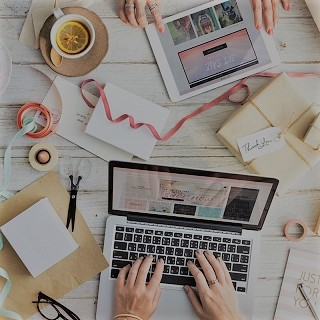
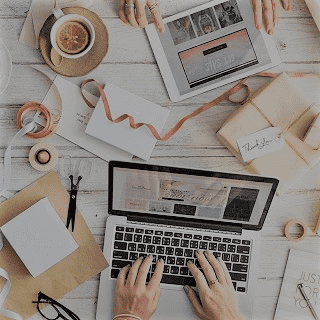
format jpg to png

diff --git a/version optimisée/index.html b/version optimisée/index.html
@@ -172,7 +172,7 @@
 		</div>
 		<div class="row tight-width-whitespace portfolio-row">
 			<div class="col-sm-6">
-				<a href="#" data-lightbox="img/1.jpg" data-gallery-id="gallery-1" data-caption="Refonte d'un site web pour un journal local" data-frame="snapshot-lb"><img src="img/1.jpg" alt="refonte site web journal" class="img-responsive portfolio-thumb" /></a>
+				<a href="#" data-lightbox="img/1.png" data-gallery-id="gallery-1" data-caption="Refonte d'un site web pour un journal local" data-frame="snapshot-lb"><img src="img/1.png" alt="refonte site web journal" class="img-responsive portfolio-thumb" /></a>
 				<h3 class="mg-md text-center">
 					Refonte d'un site web pour un journal local
 				</h3>
@@ -181,7 +181,7 @@
 				</p>
 			</div>
 			<div class="col-sm-6">
-				<a href="#" data-lightbox="img/2.jpg" data-gallery-id="gallery-1" data-caption="Création d'un site web pour photographes" data-frame="snapshot-lb"><img src="img/2.jpg" class="img-responsive portfolio-thumb" alt="Création d'un site web pour photographes" /></a>
+				<a href="#" data-lightbox="img/2.png" data-gallery-id="gallery-1" data-caption="Création d'un site web pour photographes" data-frame="snapshot-lb"><img src="img/2.png" class="img-responsive portfolio-thumb" alt="Création d'un site web pour photographes" /></a>
 				<h3 class="mg-md text-center">
 					Création d'un site web pour photographes
 				</h3>

diff --git a/version optimisée/style.css b/version optimisée/style.css
@@ -816,7 +816,7 @@ h4 {
 }
 
 .bg-banniere {
-    background-image: url("img/la-chouette-agence-banniere.jpg");
+    background-image: url("img/la-chouette-agence-banniere.png");
 }
 
 .bg-presentation {
